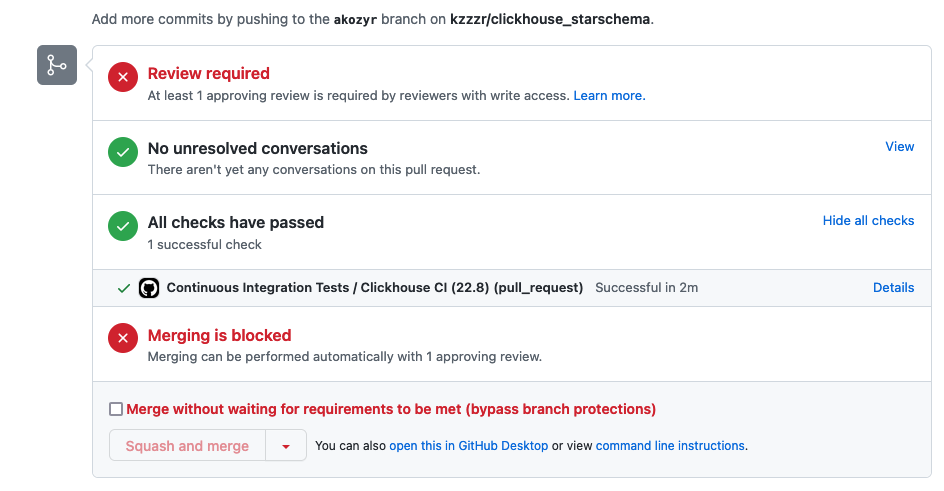
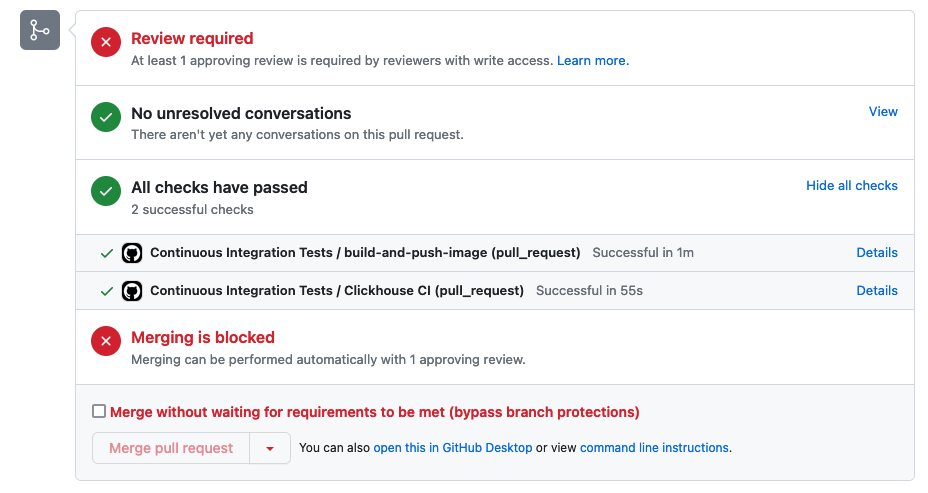
Github Actions CI configuration

diff --git a/README.md b/README.md
@@ -282,7 +282,8 @@ dbt build
 
 2. If it works for you, open PR and trigger automatic testing with Github Actions
 
-
+- ❗ Fill in your own bucket name to [.github/workflows/ci.yml](./.github/workflows/ci.yml#L58)
+- Submit your Pull Request
 
 ![Github Actions check passed](./docs/github_checks_passed.png)
 
